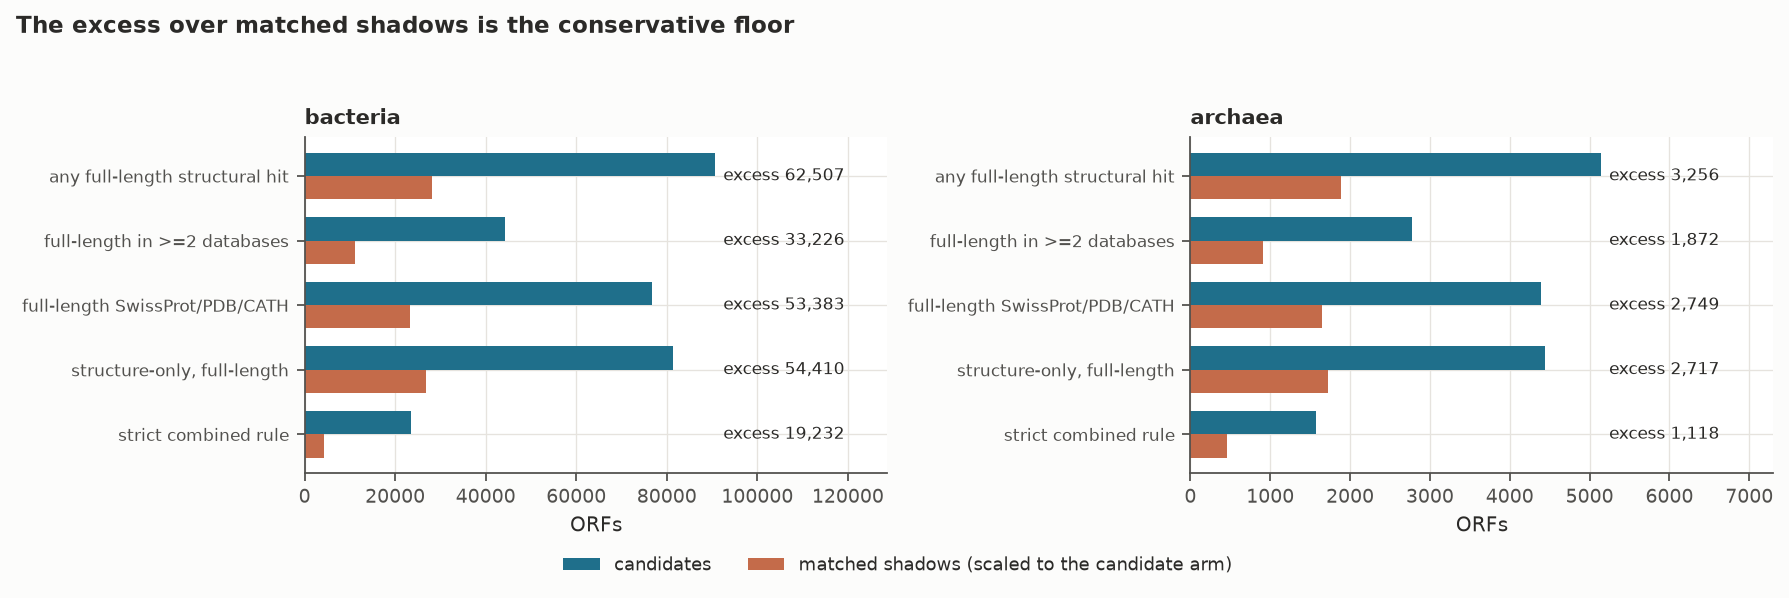
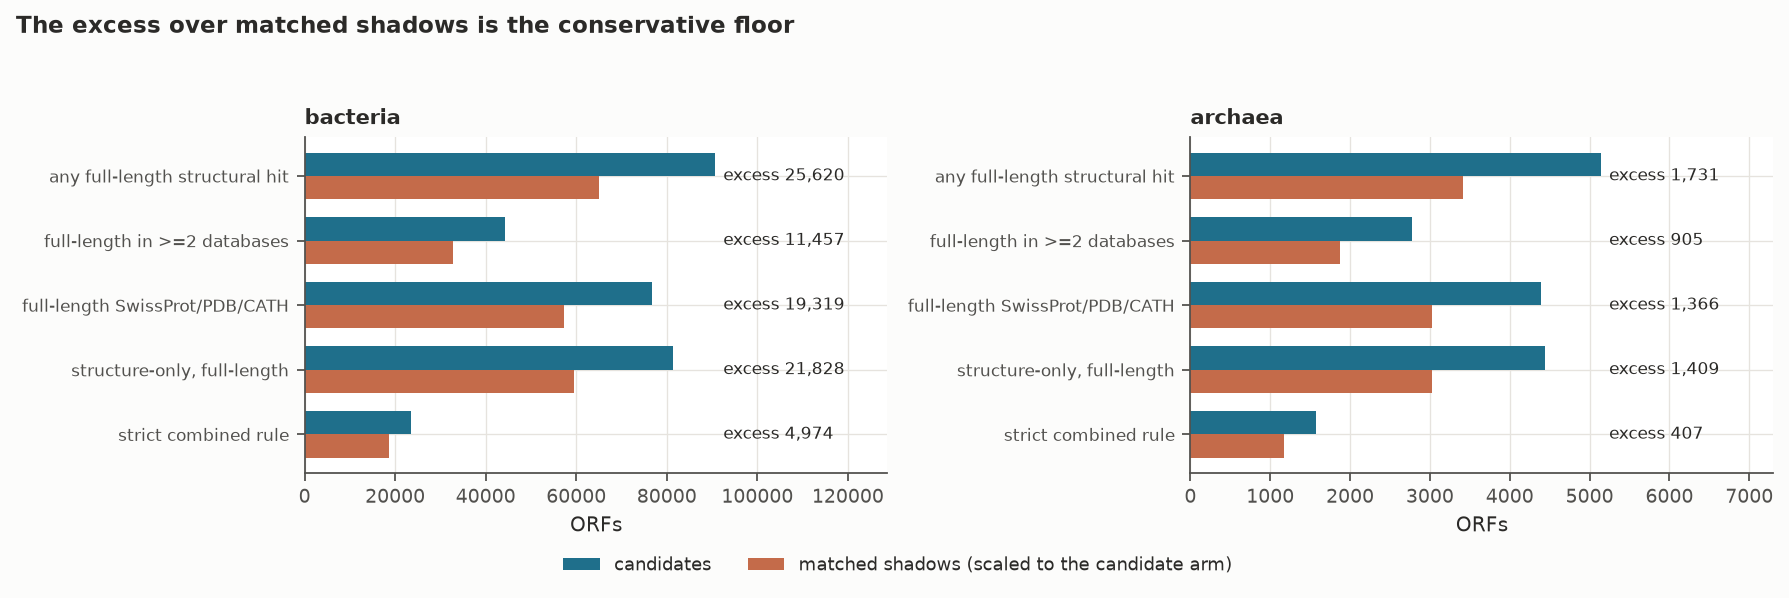
GTDB: redraw coverage and ladder figures with the matched comparator
candidate_coverage.png and evidence_ladder.png now read the committed
41_comparator_summary.py tables (matched_comparator/{bac,arc}_v7_matched.tsv),
weighted by draw multiplicity, so they show the numbers the report text
quotes. 28_report_figures.py gains --only so these two can be rendered
without the Gadi-only inputs. Report captions updated.

Claude-Session: https://claude.ai/code/session_01Y5nLebdoKTjgXzs5LVx2Vk

diff --git a/Validation/gtdb/scripts/28_report_figures.py b/Validation/gtdb/scripts/28_report_figures.py
@@ -2,14 +2,14 @@
 """Figures for the scientific report's missed-gene sections.
 
 Every panel reads a machine-readable artefact written by the stage that
-computed it — the coverage TSV from 18_pilot_analysis.py, the ladder TSV from
-22_rank_candidates.py, the per-ORF coincidence tables from
+computed it — the matched-comparator summary from 41_comparator_summary.py
+(coverage and ladder, committed under ../matched_comparator/), the per-ORF coincidence tables from
 24_prodigal_overlap.py, the classified candidates from 25_functional_classes.py
 and the neighbour table from 27_build_dossiers.py. Nothing here re-derives a
 published number, because a plotting script that reimplements the analysis is a
 second implementation that will drift from the first.
 
-  28_report_figures.py --out-dir <figures dir>
+  28_report_figures.py --out-dir <figures dir> [--only coverage ladder ...]
 """
 import argparse
 import sys
@@ -26,6 +26,9 @@ from matplotlib.patches import FancyArrow, Patch
 GD = "/g/data/ob80/re3494/gtdb_entropy"
 BAC = f"{GD}/missed_genes/full_bac"
 ARC = f"{GD}/missed_genes/pilot_arc"
+# 41_comparator_summary.py output for the matched clean comparator (#109),
+# weighted by draw multiplicity -- the numbers the report text quotes.
+MATCHED = Path(__file__).resolve().parent.parent / "matched_comparator"
 
 INK = "#2b2a28"
 MUTED = "#52514e"
@@ -128,13 +131,33 @@ def fig_funnel(out_dir):
 
 
 # --------------------------------------------------------------------------
+def read_matched(tag):
+    """41_comparator_summary.py long table -> {metric: (value, lo, hi)}."""
+    path = MATCHED / f"{tag}_v7_matched.tsv"
+    if not path.exists():
+        return None
+    d = pd.read_csv(path, sep="\t")
+    return {r.metric: (r.value, r.lo, r.hi) for r in d.itertuples()}
+
+
+DATABASES = ("afdb_swissprot", "bfvd", "cath50", "pdb100")
+
+
 def fig_coverage(out_dir):
     """Full-length mutual coverage per arm, and the implied real-gene share."""
     got = {}
-    for dom, path in (("bacteria", f"{BAC}/analysis_v5_bac_coverage.tsv"),
-                      ("archaea", f"{ARC}/analysis_v5_arc_coverage.tsv")):
-        if Path(path).exists():
-            got[dom] = pd.read_csv(path, sep="\t")
+    for dom, tag in (("bacteria", "bac"), ("archaea", "arc")):
+        m = read_matched(tag)
+        if m is None:
+            continue
+        got[dom] = pd.DataFrame([dict(
+            database=db,
+            candidate=m[f"fulllen_{db}_candidate"][0],
+            clean_shadow=m[f"fulllen_{db}_comparator"][0],
+            annotated=m[f"fulllen_{db}_annotated"][0],
+            share=m[f"share_{db}"][0],
+            share_lo=m[f"share_{db}"][1],
+            share_hi=m[f"share_{db}"][2]) for db in DATABASES])
     if not got:
         print("  (no coverage TSVs; skipping candidate_coverage.png)")
         return
@@ -189,13 +212,23 @@ def fig_coverage(out_dir):
 # --------------------------------------------------------------------------
 def fig_ladder(out_dir):
     """Direct evidence, candidates against their matched clean shadows."""
+    labels = {"C3": "any full-length structural hit",
+              "C4": "full-length in >=2 databases",
+              "C5": "full-length SwissProt/PDB/CATH",
+              "C6": "structure-only, full-length",
+              "C7": "strict combined rule"}
     got = {}
-    for dom, path in (("bacteria", f"{BAC}/ranked5_ladder.tsv"),
-                      ("archaea", f"{ARC}/ranked5_ladder.tsv")):
-        if Path(path).exists():
-            d = pd.read_csv(path, sep="\t")
-            d = d[d.comparator.str.startswith("CLEAN")]
-            got[dom] = d[~d.criterion.str.startswith(("C1", "C2"))]
+    for dom, tag in (("bacteria", "bac"), ("archaea", "arc")):
+        m = read_matched(tag)
+        if m is None:
+            continue
+        # comparator_scaled is already weighted by draw multiplicity and
+        # scaled to the candidate arm.
+        got[dom] = pd.DataFrame([dict(
+            criterion=lbl,
+            candidates=m[f"ladder_{c}_candidates"][0],
+            scaled=m[f"ladder_{c}_comparator_scaled"][0],
+            excess=m[f"ladder_{c}_excess"][0]) for c, lbl in labels.items()])
     if not got:
         print("  (no ladder TSVs; skipping evidence_ladder.png)")
         return
@@ -207,14 +240,13 @@ def fig_ladder(out_dir):
         # bar makes it read as a subset of it; they are separate arms and the
         # point of the panel is the gap between them.
         y = np.arange(len(d))[::-1]
-        scaled = d.shadows * d.n_candidate_arm / d.n_shadow_arm
+        scaled = d.scaled
         h = 0.36
         ax.barh(y + h / 2, d.candidates, height=h, color=ARM["candidate"],
                 label="candidates")
         ax.barh(y - h / 2, scaled, height=h, color=ARM["shadow_hi"],
                 label="matched shadows (scaled to the candidate arm)")
-        ax.set_yticks(y, [c.split(" ", 1)[1].replace("C2 + ", "")
-                          for c in d.criterion], fontsize=7.8)
+        ax.set_yticks(y, d.criterion, fontsize=7.8)
         ax.set_xlabel("ORFs")
         ax.set_title(dom, loc="left", fontweight="bold")
         for yy, exc in zip(y, d.excess):
@@ -440,17 +472,19 @@ def fig_exemplar_loci(out_dir):
 
 def main():
     ap = argparse.ArgumentParser(description=__doc__.split("\n")[0])
+    figs = {"funnel": fig_funnel, "coverage": fig_coverage,
+            "ladder": fig_ladder, "prodigal": fig_prodigal,
+            "composition": fig_composition, "exemplars": fig_exemplar_loci}
     ap.add_argument("--out-dir", default=f"{GD}/figures")
+    ap.add_argument("--only", nargs="+", choices=figs, default=list(figs),
+                    help="render only these figures (coverage and ladder "
+                         "need only the committed matched_comparator/ tables)")
     args = ap.parse_args()
     Path(args.out_dir).mkdir(parents=True, exist_ok=True)
     style()
     print(f"writing to {args.out_dir}")
-    fig_funnel(args.out_dir)
-    fig_coverage(args.out_dir)
-    fig_ladder(args.out_dir)
-    fig_prodigal(args.out_dir)
-    fig_composition(args.out_dir)
-    fig_exemplar_loci(args.out_dir)
+    for name in args.only:
+        figs[name](args.out_dir)
     return 0
 
 

diff --git a/Validation/gtdb/scientific_report.md b/Validation/gtdb/scientific_report.md
@@ -921,8 +921,9 @@ runs out.
 Every other step is unchanged: the same Foldseek binary, databases and
 parameters, and the same analysis scripts. Methods, balance tables and
 sensitivity runs are in [`matched_comparator.md`](matched_comparator.md). All
-numbers below are weighted by how often each comparator ORF was drawn. The
-coverage and ladder figures still show the published comparator.
+numbers below are weighted by how often each comparator ORF was drawn, and so
+are the coverage and ladder figures. The Prodigal figure still shows the
+published comparator.
 
 #### Full-length mutual coverage is the readout that discriminates
 
@@ -950,7 +951,7 @@ published). The difference is therefore the arm's 3Di and length composition,
 not its per-ORF behaviour.
 
 ![Full-length coverage by arm and database, with the implied real-gene
-share (published comparator)](figures/candidate_coverage.png)
+share (matched comparator)](figures/candidate_coverage.png)
 
 BFVD is excluded from estimation because its annotated ceiling is ~11%, so the
 mixture denominator is small and the ratio unstable. It is retained for
@@ -1009,8 +1010,7 @@ construction. The published ladder gave C2 −26,768: that was the truncation
 imbalance, not evidence. Against the published comparator, C3 and C7 were
 62,507 / 3,256 and 19,232 / 1,118.
 
-![Direct evidence: candidates against clean shadows (published
-comparator)](figures/evidence_ladder.png)
+![Direct evidence: candidates against matched clean shadows](figures/evidence_ladder.png)
 
 **These are a set, not a nested ladder** — C6 (4,439) exceeds C4 (2,777) in
 archaea, so reading down the column as increasing stringency is wrong. C3–C6 are
